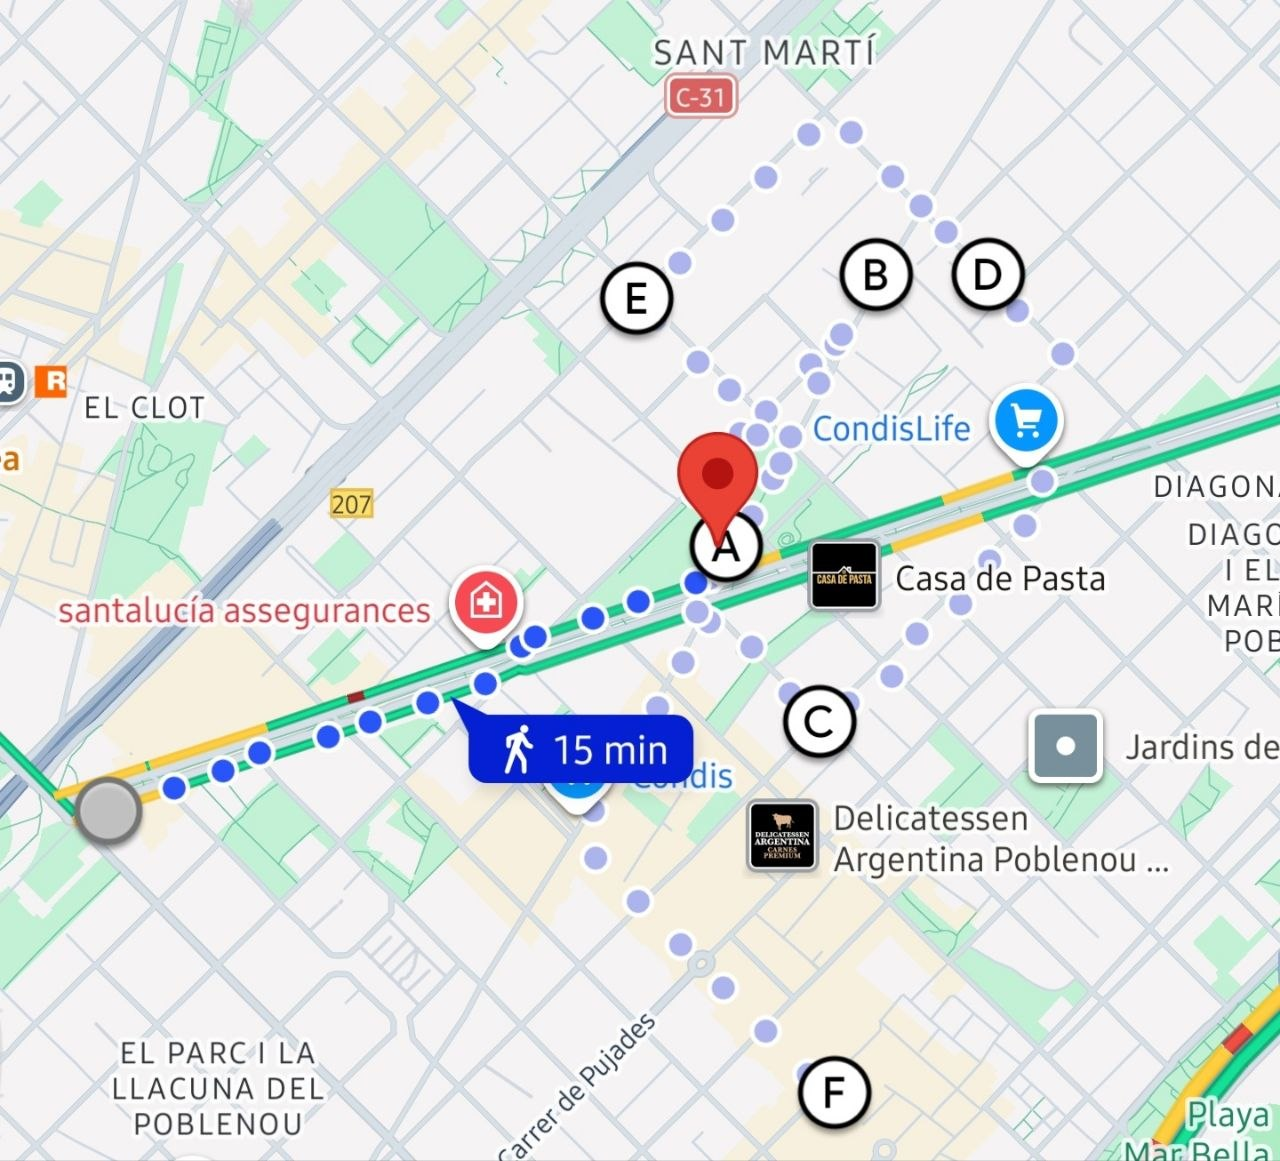
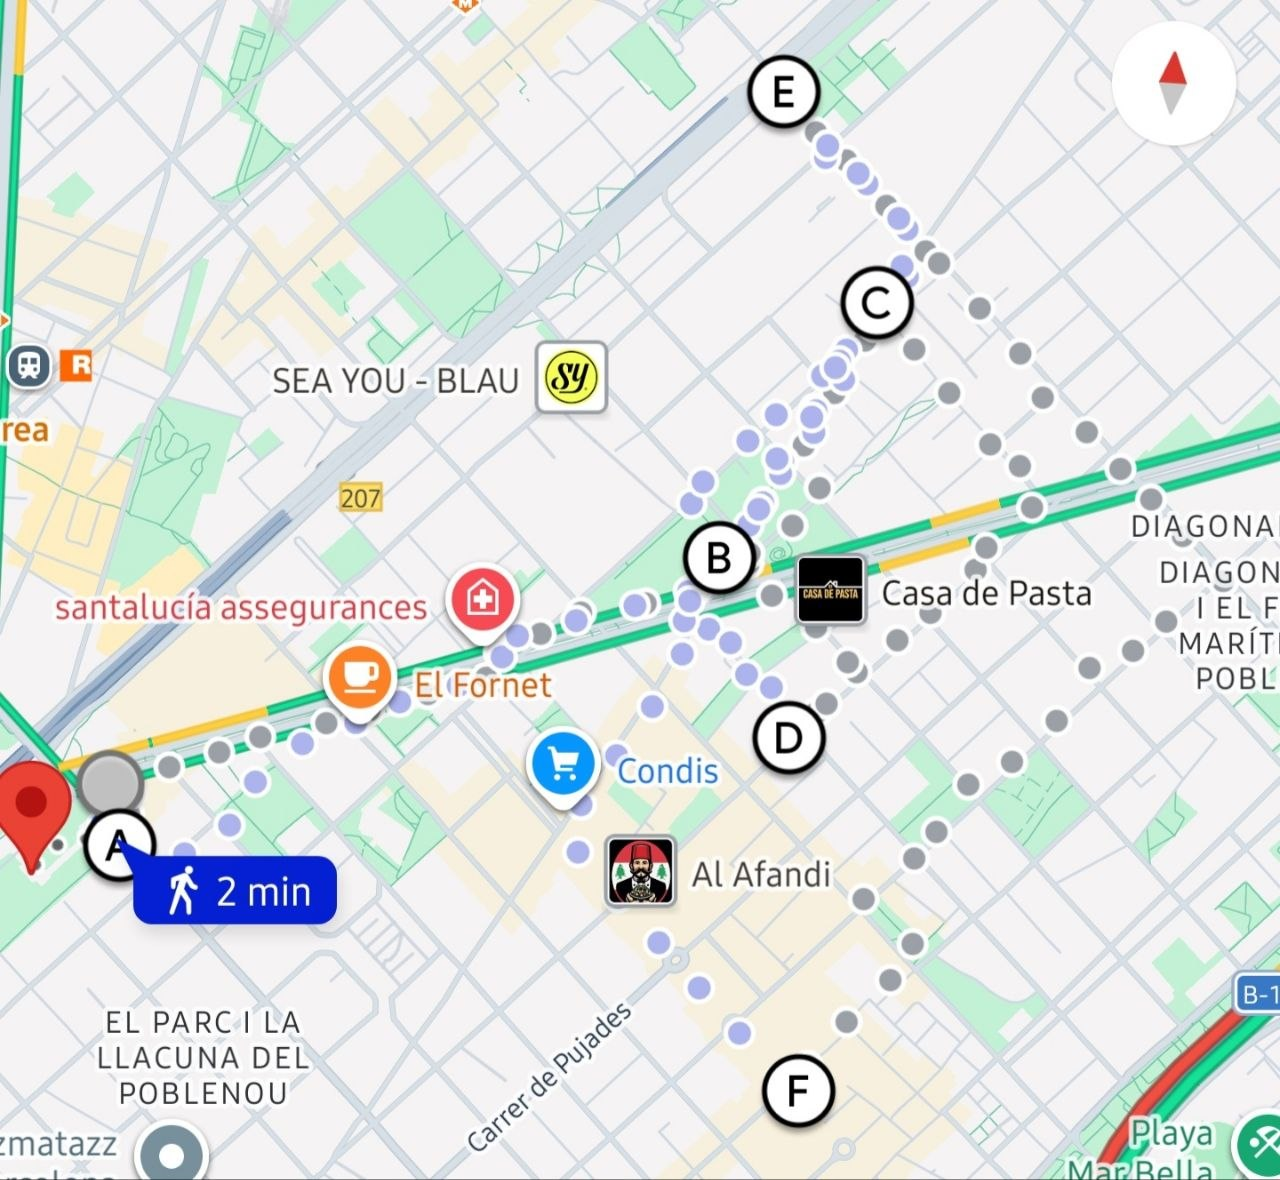
🗺️ Update Poblenou route: 7 stops A-G matching Google Maps waypoints, new route screenshot

diff --git a/poblenou-street-art.html b/poblenou-street-art.html
@@ -79,7 +79,7 @@ body{font-family:'Poppins',sans-serif;background:var(--bg);color:var(--text);min
   <h2>📋 Walk Details</h2>
   <div class="info-row"><span class="info-label">What</span><span class="info-value">Self-guided street art walking route</span></div>
   <div class="info-row"><span class="info-label">Distance</span><span class="info-value">~5km (3–4 hours at an easy pace)</span></div>
-  <div class="info-row"><span class="info-label">Stops</span><span class="info-value">6 waypoints (A–F)</span></div>
+  <div class="info-row"><span class="info-label">Stops</span><span class="info-value">7 waypoints (A–G)</span></div>
   <div class="info-row"><span class="info-label">Start</span><span class="info-value">Torre Glòries (Metro L1, Glòries)</span></div>
   <div class="info-row"><span class="info-label">End</span><span class="info-value">Rambla del Poblenou</span></div>
   <div class="info-row"><span class="info-label">Cost</span><span class="info-value">Free</span></div>
@@ -95,7 +95,7 @@ body{font-family:'Poppins',sans-serif;background:var(--bg);color:var(--text);min
     <div class="stop-number">A</div>
     <div class="stop-content">
       <h3><a href="https://www.google.com/maps/search/Torre+Glorieta,+Barcelona" target="_blank" rel="noopener">Torre Glòries</a></h3>
-      <p>Jean Nouvel's bullet-shaped tower with 4,500 coloured glass panels. Start here — it's the unmistakable landmark at the edge of the 22@ district. The Disseny Hub Barcelona (design museum) is right next to it — free on Sundays from 15:00.</p>
+      <p>Jean Nouvel's bullet-shaped tower with 4,500 coloured glass panels. Start here — it's the unmistakable landmark that marks the edge of the 22@ district.</p>
       <div class="stop-meta">Plaça de les Glòries · Metro L1 Glòries</div>
     </div>
   </div>
@@ -103,41 +103,50 @@ body{font-family:'Poppins',sans-serif;background:var(--bg);color:var(--text);min
   <div class="route-stop">
     <div class="stop-number">B</div>
     <div class="stop-content">
-      <h3><a href="https://www.google.com/maps/search/Carrer+de+Pere+IV,+Barcelona" target="_blank" rel="noopener">Carrer de Pere IV — the street art backbone</a></h3>
-      <p>Walk southeast along Pere IV — this is the main axis. 200m from the start you'll pass <strong>Parc del Centre del Poblenou</strong> (Jean Nouvel-designed, with Escif's Classical Column mural on the facades). Keep walking — the factory facades along Pere IV are the neighbourhood's most active canvas, with murals by Axel Void, Miss Van, Sixe Paredes, and Roc Blackblock.</p>
-      <div class="stop-meta">Carrer de Pere IV · 30–40 min walk with stops</div>
+      <h3><a href="https://www.google.com/maps/search/Disseny+Hub+Barcelona,+Pla%C3%A7a+de+les+Gl%C3%B2ries,+Barcelona" target="_blank" rel="noopener">Disseny Hub Barcelona</a></h3>
+      <p>The city's design museum, right next to Torre Glòries. Free on Sundays from 15:00. Its terraces have a direct visual axis to the tower and the park. Walk past and head south toward the park.</p>
+      <div class="stop-meta">Plaça de les Glòries · 2 min from start</div>
     </div>
   </div>
 
   <div class="route-stop">
     <div class="stop-number">C</div>
     <div class="stop-content">
-      <h3><a href="https://www.google.com/maps/search/La+Escocesa,+Carrer+de+Pere+IV+345,+Barcelona" target="_blank" rel="noopener">La Escocesa</a></h3>
-      <p>At Pere IV #345, a 19th-century Scottish textile factory turned artist studio centre with 21 active studios. The exterior walls carry murals by Miss Van and Zosen Bandido. If it's open (festivals, open-door days), pop inside. The <strong>Wallspot system</strong> manages legal mural rotation on the surrounding walls.</p>
-      <div class="stop-meta">Carrer de Pere IV, 345</div>
+      <h3><a href="https://www.google.com/maps/search/Parc+del+Centre+del+Poblenou,+Barcelona" target="_blank" rel="noopener">Parc del Centre del Poblenou</a></h3>
+      <p>Walk 2 minutes south to this Jean Nouvel-designed park. The perimeter walls are covered in Mediterranean plants and the building facades around the park feature murals — look for Escif's Classical Column, one of the first serious urban art pieces in the neighbourhood.</p>
+      <div class="stop-meta">Carrer del Marroc · 2 min from Disseny Hub</div>
     </div>
   </div>
 
   <div class="route-stop">
     <div class="stop-number">D</div>
     <div class="stop-content">
-      <h3><a href="https://www.google.com/maps/search/Carrer+de+Pallars+and+Carrer+de+Lope+de+Vega,+Barcelona" target="_blank" rel="noopener">Borondo's "Fer Llenya" mural</a></h3>
-      <p>At the corner of Pallars and Lope de Vega — one of the largest murals in Poblenou. Castellers (human towers) in expressionist brushwork with dripping colours. Painted during the 2015 Open Walls Conference and still standing, which is rare for this neighbourhood.</p>
-      <div class="stop-meta">Carrer de Pallars & Carrer de Lope de Vega</div>
+      <h3><a href="https://www.google.com/maps/search/La+Escocesa,+Carrer+de+Pere+IV+345,+Barcelona" target="_blank" rel="noopener">La Escocesa & Carrer de Pere IV</a></h3>
+      <p>Head southeast along Pere IV — this is the street art backbone of Poblenou. At number 345 you'll find <strong>La Escocesa</strong> — a 19th-century Scottish textile factory turned artist studio centre with 21 active studios. The exterior walls carry murals by Miss Van and Zosen Bandido. The facades along the whole stretch change constantly with work by Axel Void, Sixe Paredes, and Roc Blackblock.</p>
+      <div class="stop-meta">Carrer de Pere IV · La Escocesa at #345 · ~30 min walk with stops</div>
     </div>
   </div>
 
   <div class="route-stop">
     <div class="stop-number">E</div>
     <div class="stop-content">
-      <h3><a href="https://www.google.com/maps/search/Carrer+de+la+Selva+de+Mar,+Barcelona" target="_blank" rel="noopener">Selva de Mar & Carrer del Perú</a></h3>
+      <h3><a href="https://www.google.com/maps/search/Carrer+de+Pallars+297,+Barcelona" target="_blank" rel="noopener">Borondo's "Fer Llenya" mural</a></h3>
+      <p>At the corner of Lope de Vega and Pallars — one of the largest murals in Poblenou. Castellers (human towers) in expressionist brushwork with dripping colours. Painted during the 2015 Open Walls Conference and still standing, which is rare for this neighbourhood.</p>
+      <div class="stop-meta">Carrer de Pallars & Carrer de Lope de Vega</div>
+    </div>
+  </div>
+
+  <div class="route-stop">
+    <div class="stop-number">F</div>
+    <div class="stop-content">
+      <h3><a href="https://www.google.com/maps/search/Carrer+de+Selva+de+Mar+%26+Carrer+del+Per%C3%BA,+Barcelona" target="_blank" rel="noopener">Selva de Mar & Carrer del Perú</a></h3>
       <p>Turn north onto Selva de Mar — the block between here and Carrer del Perú concentrates some of the largest murals in the neighbourhood. Look for the hyperrealist portrait, the <strong>ConnectHort community garden</strong> murals (pomegranates by Taneli Stenberg, a snake by Mr Sid, a girl with birds by Maya Jevans), and pieces that change constantly through the Wallspot rotation system.</p>
       <div class="stop-meta">Carrer de la Selva de Mar & Carrer del Perú · ~15 min</div>
     </div>
   </div>
 
   <div class="route-stop">
-    <div class="stop-number">F</div>
+    <div class="stop-number">G</div>
     <div class="stop-content">
       <h3><a href="https://www.google.com/maps/search/Rambla+del+Poblenou,+Barcelona" target="_blank" rel="noopener">Rambla del Poblenou</a></h3>
       <p>Finish on the neighbourhood's main boulevard. Grab a coffee at <strong>Nome</strong> or <strong>Federal Café</strong>, ice cream at <strong>Tío Che</strong> (here since 1912), and look up at the Modernista building facades that nobody signposts. If you want more, the Poblenou Cemetery is nearby — contemporary street art surrounding 19th-century funerary sculpture. Free, open 08:00–18:00.</p>